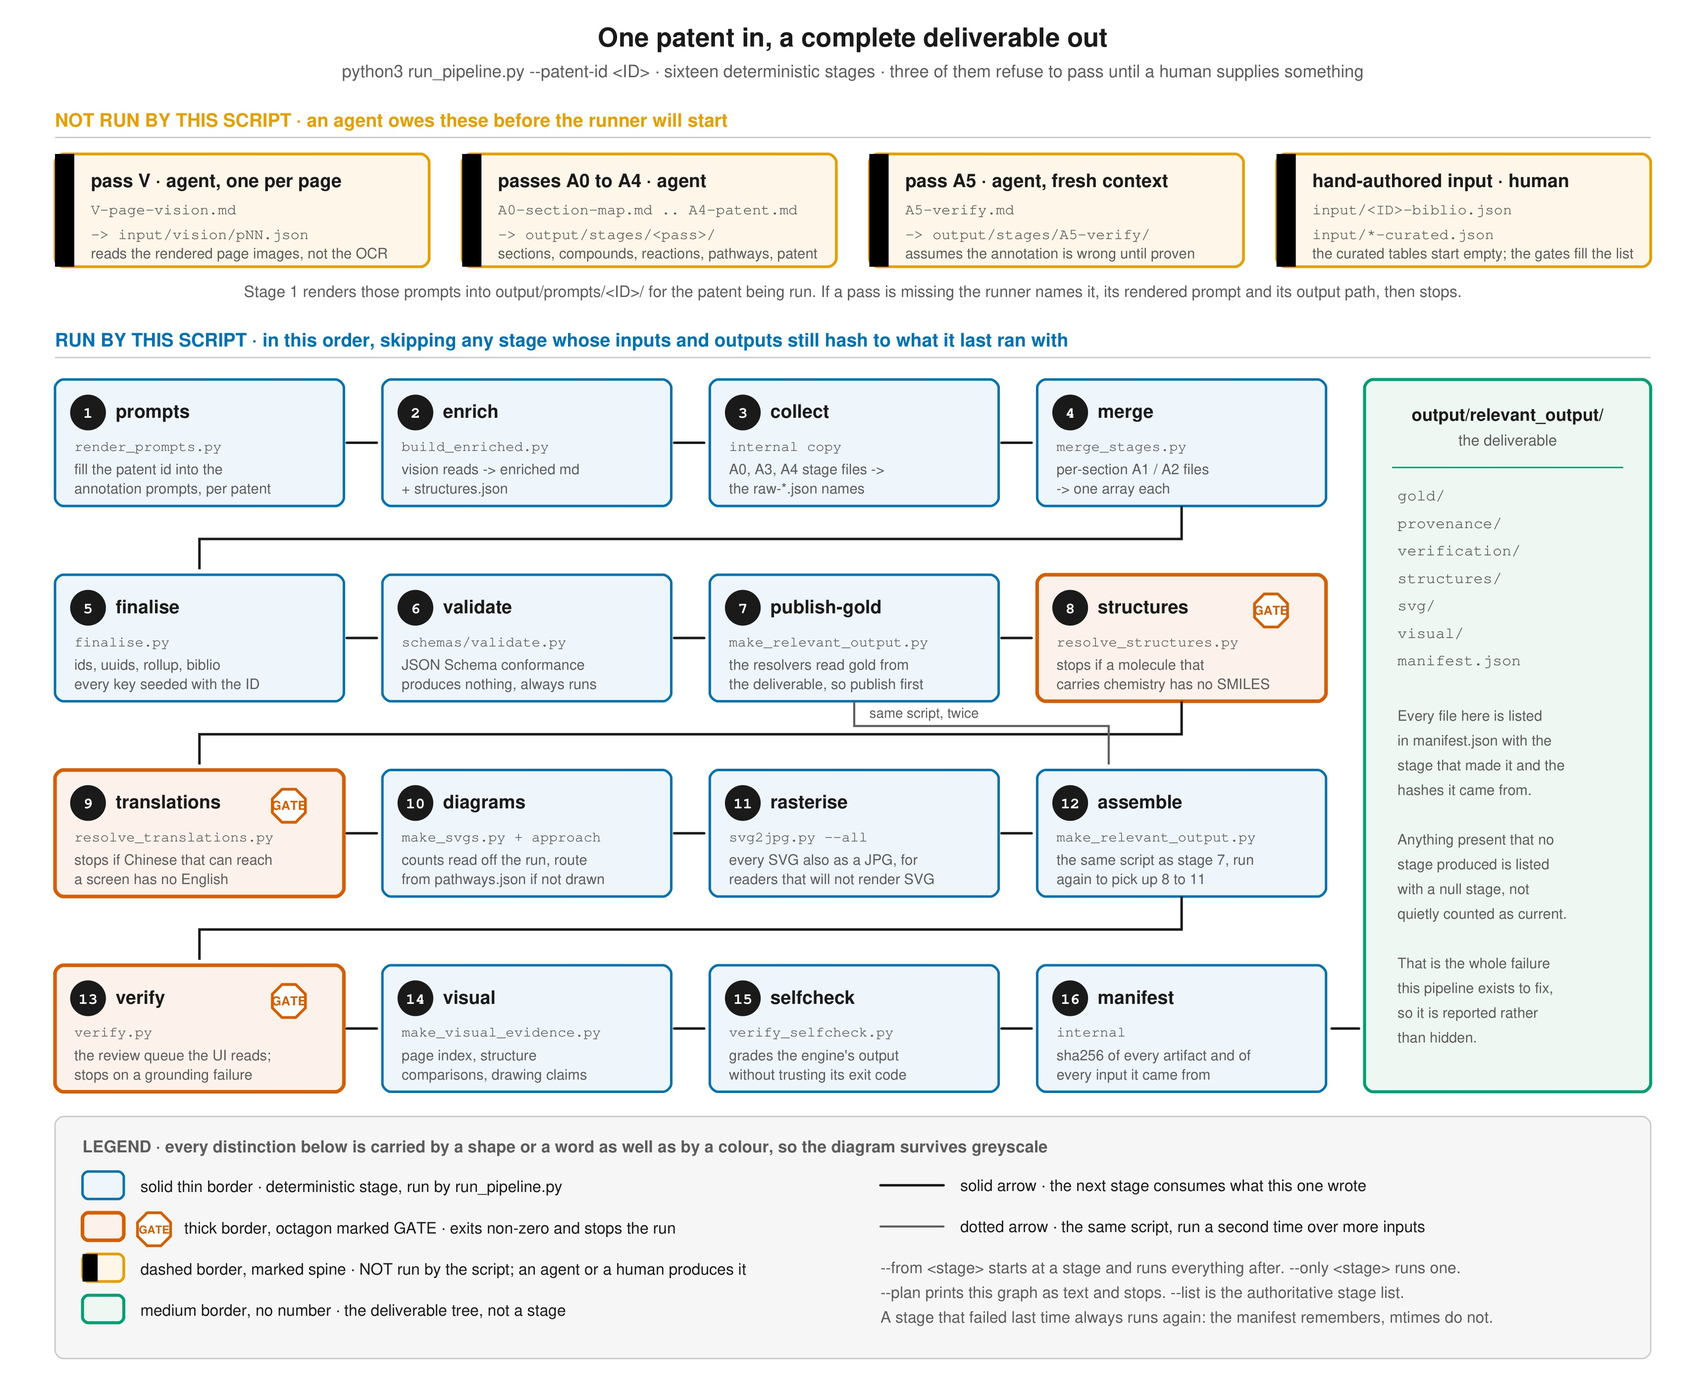
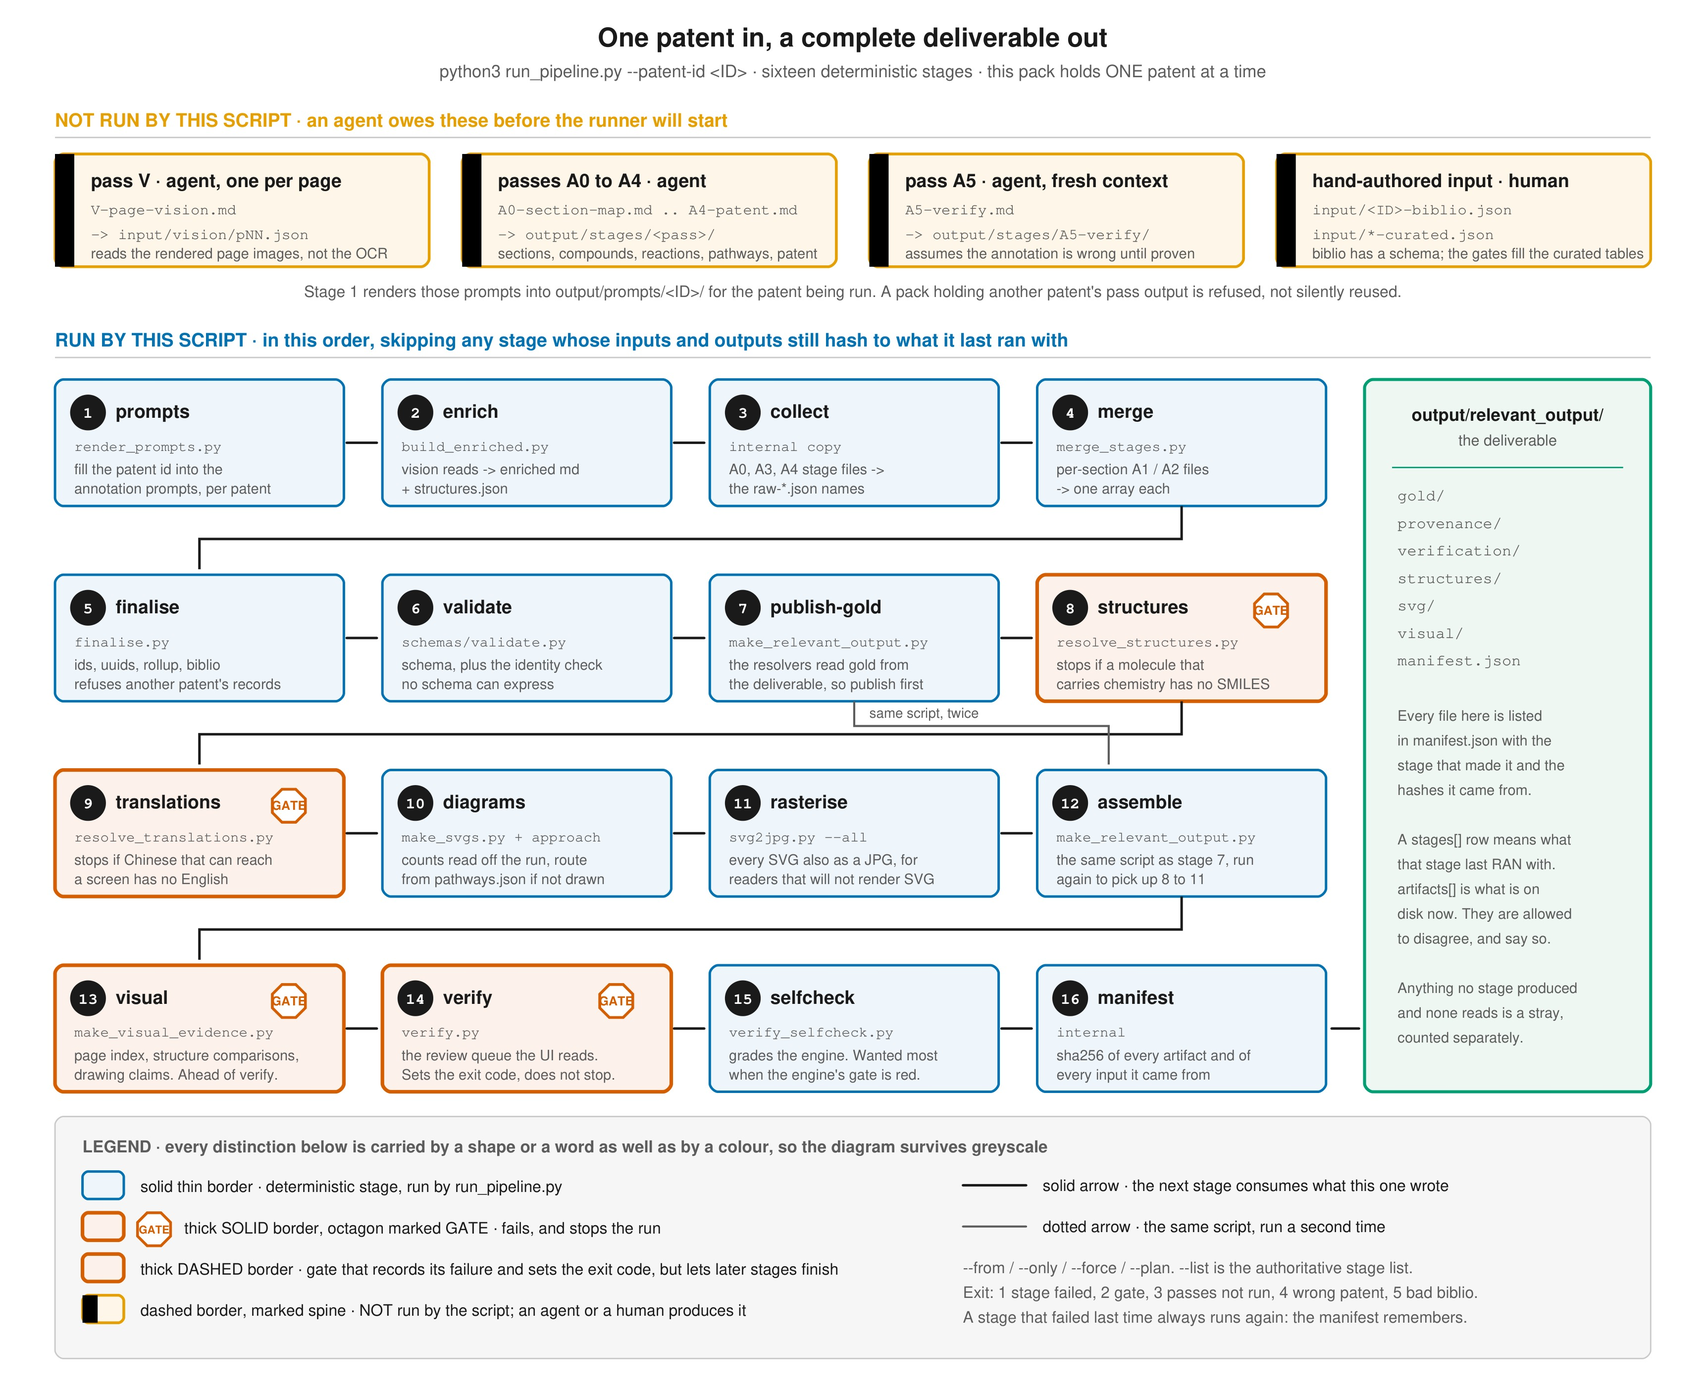
Visual comparisons reoriented to the patent, English gate clean

diff --git a/verify_selfcheck.py b/verify_selfcheck.py
@@ -22,6 +22,8 @@ corruption test safe: the gold is mutated in a dict, never on disk.
                         72-line citation is not the same evidence as `found`
                         against one line, and the contract's confidence bound is
                         computed over claims that do not distinguish them
+    I  fidelity       every index entry the index can answer, the scrubber
+                        answers, because deleting a term passes the Han gate too
     F  agreement        the engine's quantity failures against the annotation's
                         own validation flags, all three ways round
     G  contract        the claim shape against VERIFICATION-CONTRACT.md
@@ -143,6 +145,52 @@ def test_no_chinese(artifact: dict) -> None:
            "none" if not salvageable else
            "; ".join(f"line {n} is {latin} Latin characters against {han} Han"
                      for n, han, latin in salvageable))
+
+
+def test_translation_fidelity(data: dict) -> None:
+    """Does the scrubber actually USE the index, or just delete what it cannot read?
+
+    The no-Chinese gate is satisfied by translating a term and equally satisfied by
+    replacing it with "[untranslated Chinese term]". Those are opposite outcomes and
+    the gate cannot tell them apart, which is the same blind spot that let line 76
+    be thrown away whole. So this asks the sharper question: for every entry the
+    index HAS an English answer for, does the scrubber produce it?
+
+    Stated that way the test cannot be gamed and needs no threshold. A key the index
+    resolves and the scrubber does not is unambiguously the scrubber's defect, never
+    a curation gap.
+    """
+    print("\nI  does the scrubber use the index it was given")
+    index = data["translations"]
+    answerable = {k: (v or {}).get("en") for k, v in index.items()
+                  if V.has_chinese(k) and (v or {}).get("en")}
+    missed = [k for k, en in answerable.items()
+              if V.UNTRANSLATED in V.scrub(k, index)]
+    record("every index entry the index can answer, the scrubber answers",
+           PASS if not missed else FAIL,
+           f"{len(answerable) - len(missed)} of {len(answerable)} resolve"
+           + ("" if not missed else
+              "; unresolved: " + ", ".join(
+                  f"{k} (index says {answerable[k]!r})" for k in missed[:3])))
+
+    # The corpus that actually reaches the scrubber at run time, which is wider
+    # than the index: identifiers, aliases, quotes and raw source lines.
+    corpus = set()
+    for c in data["compounds"]:
+        for s in [c["identifier"], *(c.get("aliases") or [])]:
+            if s and V.has_chinese(s):
+                corpus.add(s)
+    for row in data["compound_prov"] + data["reaction_prov"]:
+        q = row.get("quote_zh")
+        if q and V.has_chinese(q):
+            corpus.add(q)
+    markers = sum(V.scrub(s, index).count(V.UNTRANSLATED) for s in corpus)
+    mangled = [s for s in corpus if V.UNTRANSLATED in V.scrub(s, index)]
+    record("the strings the reviewer actually meets survive scrubbing",
+           PASS if not mangled else WARN,
+           f"{len(mangled)} of {len(corpus)} carry an untranslated marker, "
+           f"{markers} markers in total. Anything left is an index gap, not a "
+           f"scrubber defect, because the check above passed")
 
 
 def test_sensitivity(patent_id: str, data: dict, artifact: dict) -> None:
@@ -478,6 +526,7 @@ def main() -> int:
     data = V.load_inputs(patent_id)
     artifact = test_determinism(patent_id, data)
     test_no_chinese(artifact)
+    test_translation_fidelity(data)
     test_sensitivity(patent_id, data, artifact)
     test_census(artifact)
     test_contract_shape(artifact)

diff --git a/verify.py b/verify.py
@@ -488,7 +488,18 @@ def scrub(text: str, index: dict) -> str:
     if not has_chinese(text):
         return text
 
-    out = substitute_longest(text, index)
+    # Substituted to a fixpoint, because an index VALUE can itself carry Chinese.
+    # The abstract's entry resolves whole and its English still says "higher than
+    # that of 硝环磺酮 and 甲基磺草酮", both of which the index also answers. One pass
+    # leaves those as markers and loses two herbicide names; a second resolves them.
+    # Bounded and stopped on no-change, so an entry that quoted its own key could
+    # not spin here.
+    out = text
+    for _ in range(4):
+        nxt = substitute_longest(out, index)
+        if nxt == out:
+            break
+        out = nxt
     out = _collapse_gloss(out)
     out = CJK_PAREN.sub("", out)
     out = re.sub(CJK.pattern + "+", UNTRANSLATED, out)
@@ -2992,10 +3003,20 @@ class Run(Engine):
             (f"It is not asserted by any claim on any record citing line {line}. "
              + (f"The field that would hold it is {path}. " if path else "") + why),
             needs_human=True, about_fields=[path] if path else []))
-        claim = self._claim(
-            rec, f"__quantity__[{tag}]",
+        # The question has to follow from `about` or the axis is decoration. These
+        # two claims look identical on screen and ask opposite things: one asks a
+        # reviewer to judge an omission, the other tells them there is nothing to
+        # judge because the field could not have held the answer. Asking "should it
+        # have?" of a schema loss invites a reviewer to mark correct work wrong,
+        # which is the exact failure `about` exists to prevent.
+        question = (
+            f"Line {line} prints {printed}, and the field that would hold it, "
+            f"{path}, cannot. Nothing was misread. Is a schema change worth it?"
+            if family == "schema_loss" else
             f"Line {line} prints {printed}. The annotation does not record it "
-            f"anywhere. Should it have?",
+            f"anywhere. Should it have?")
+        claim = self._claim(
+            rec, f"__quantity__[{tag}]", question,
             printed, low.value, low.unit, self.source.with_partners([line]), [],
             "not_checkable",
             f"{printed} is printed on line {line} and no claim on any record citing "

diff --git a/schemas/validate.py b/schemas/validate.py
@@ -52,6 +52,17 @@ for art, sch in PAIRS:
         print(f"      {'.'.join(str(p) for p in e.path) or '<root>'}: {e.message[:110]}")
     bad += len(errs)
 
+# ---------------------------------------------------------------- the input
+# The biblio is an input rather than an artifact, and the runner checks it before
+# any stage runs. Checked here too so that running this script standalone covers
+# every schema the pack has, not just the ones downstream of finalise.
+from pipeline_context import validate_biblio
+biblio_problems = validate_biblio(PATENT_ID)
+print(f"  {'biblio (input)':22} {'ok' if not biblio_problems else f'{len(biblio_problems)} violations'}")
+for x in biblio_problems[:10]:
+    print(f"      {x}")
+bad += len(biblio_problems)
+
 # ---------------------------------------------------------------- identity
 # Every record must be about the patent this run is about, and about the same
 # patent as every other record. No schema expresses this.

diff --git a/PIPELINE.md b/PIPELINE.md
@@ -77,8 +77,8 @@ none of it does.
 | 10 | `diagrams` | `make_svgs.py`, `make_approach.py` | `svg/m1` to `m5`, `svg/approach.svg` | |
 | 11 | `rasterise` | `svg2jpg.py --all` | `svg/*.jpg` | |
 | 12 | `assemble` | `make_relevant_output.py` | the deliverable again, now including structures, translations and diagrams | |
-| 13 | `verify` | `verify.py` | `relevant_output/verification/checks-<ID>.json` | yes |
-| 14 | `visual` | `make_visual_evidence.py` | `relevant_output/visual/`: the page index, the structure comparisons, the drawing claims | |
+| 13 | `visual` | `make_visual_evidence.py` | `relevant_output/visual/`: the page index, the structure comparisons, the drawing claims | yes |
+| 14 | `verify` | `verify.py` | `relevant_output/verification/checks-<ID>.json` | yes, non-blocking |
 | 15 | `selfcheck` | `verify_selfcheck.py` | nothing; grades the verification engine's own output | |
 | 16 | `manifest` | internal | `relevant_output/manifest.json` | |
 
@@ -146,7 +146,38 @@ lines the record itself cites and exits non-zero when a `grounding` check fails.
 non-zero when what they are grading is wrong, which is the point: a stage that
 produces nothing cannot be skipped for being current.
 
-### What the runner does with a gate
+### One gate does not stop the run
+
+`verify` is a gate and sets the exit code, but the stages after it still run.
+
+A grounding failure says the **annotation** is suspect. It does not say the page
+images are suspect, and the visual evidence, the page index and the structure
+comparisons are exactly what a human reaches for at that moment. Blocking them
+behind a red gate removes the evidence at the point it is most needed. It also put
+the visual stage back where it started: produced only when somebody ran the script
+by hand, which is the gap this pipeline exists to close, reappearing one stage
+downstream of a gate that is red on purpose and may stay red for a long time.
+
+`visual` now runs *before* `verify` anyway, because it consumes nothing `verify`
+produces; the old order was incidental, not causal. `selfcheck` runs after, because
+grading the engine is exactly what you want when the engine's gate is red.
+
+Nothing is swallowed. The run ends with:
+
+```
+pipeline reached the end: CN104292137A  (A GATE FAILED, see below)
+========================================================================
+GATE FAILED: verify (exit 1). THIS RUN IS NOT CLEAN.
+Stages that ran anyway, because they consume nothing the failed gate
+produces:  selfcheck
+Their output is current for this gold. The gold itself is what the gate is
+questioning, so read the gate's message above before trusting any of it.
+```
+
+`structures` and `translations` stay fully blocking, because everything downstream
+genuinely consumes what they produce.
+
+### What the runner does with a blocking gate
 
 Stops. Prints the stage's own message unmodified, says how to resume, and exits 2.
 
@@ -232,8 +263,14 @@ went missing, and the rebuild is byte-identical for the five that did not need t
 change, so nothing drifts. But do not read the manifest and expect a one-file
 delete to cause a one-file rebuild.
 
-Exit codes: `0` ok, `1` a stage failed, `2` a coverage gate stopped the run, `3`
-the LLM passes have not been run.
+| exit | meaning |
+|---:|---|
+| `0` | everything ran or was already current |
+| `1` | a stage failed |
+| `2` | a gate did not pass |
+| `3` | the LLM annotation passes have not been run |
+| `4` | this pack holds a different patent's work |
+| `5` | the bibliographic record is missing or malformed |
 
 Running twice changes nothing. Verified three ways: two `--force` runs produce a
 byte-identical tree including the manifest; a `--force` run followed by a plain run
@@ -323,9 +360,16 @@ id comes from `--patent-id`, from `$ANNOTATION_PATENT_ID`, or from the one
    The runner reports both of these as missing, with that command, so you do not
    have to remember it.
 
-2. **Write `input/<ID>-biblio.json`.** Same shape as the existing one:
-   `family_id`, `title_en`, the dates, `jurisdiction`, `language`, `assignees`,
-   `inventors`, `legal_status`, `ipc_codes`, `abstract_zh`.
+2. **Write `input/<ID>-biblio.json`.** `schemas/biblio.schema.json` is the
+   contract and documents every field. The runner validates it as a whole before
+   any stage runs and reports every problem at once, rather than failing at one
+   bare `b["key"]` at a time several stages in.
+
+   Two things worth knowing. `grant_date` is nullable, because most published
+   applications are never granted and making it fatal made the pack unusable for
+   them. And `jurisdiction` is the fallback country for any inventor given as a
+   bare name, so a wrong value there mislabels every inventor; give inventors as
+   `{"name": ..., "country": ...}` objects where it matters.
 
 3. **Start the two curated tables empty.** The gates will tell you what goes in
    them; guessing first wastes the trip.
@@ -374,6 +418,46 @@ page carries the most drawn structures, the cumulative yield from the pathway th
 annotation stands behind.
 
 ---
+
+## This pack holds ONE patent at a time
+
+Say it plainly, because the runner reads as though it were multi-patent and it is
+not. **11 of the 119 declared paths carry the patent id.** The other 108 do not:
+`output/stages/A1-compounds/`, `input/vision/`, `output/compounds.json`,
+`output/structures/`, `svg/`, and the whole of `output/relevant_output/` are
+patent-agnostic paths holding one patent's contents.
+
+So `--patent-id <other>` in a pack that already holds a finished patent does not
+mean "also do this one". It means "overwrite that one", and until recently it meant
+something worse.
+
+**The chimera.** A pack holding a complete CN104292137A has, for any other patent
+id, *no missing prerequisites at all*: every A0 to A5 file the check looks for is
+at a patent-agnostic path, so patent one's files satisfy patent two's requirements
+completely. `finalise` then printed "75 unique compounds" for the new patent and
+wrote 75 records whose `id` was built from the new patent and whose `patent_id`
+field still named the old one. Schema validation passed, because no schema says a
+record's patent id must match the run or match `patent.json`. `publish-gold` copied
+it into the deliverable. Nothing crashed. The artifact was internally consistent,
+individually well formed, and about the wrong document.
+
+Three checks close it, in the order they can fire:
+
+| where | catches | exit |
+|---|---|---:|
+| `run_pipeline.py`, before any stage | any `patent_id` under `output/stages/`, `input/vision/` or the curated tables that disagrees with the run | 4 |
+| `finalise.py`, before a single id is built | the same, on the raw arrays it is about to finalise | 2 |
+| `schemas/validate.py` | a record whose `patent_id` is not the run's, or whose `id` is not built from its own `patent_id` | 1 |
+
+The third is the one worth understanding: **JSON Schema cannot express it.** A
+schema can say a record has a `patent_id`. It cannot say that value is the same as
+the run's, or the same as every other record's. So that check lives in code beside
+the schema check, not inside it.
+
+**To run a second patent, start a clean pack.** Copy the scripts, `prompts/`,
+`schemas/` and `contracts/`; leave `output/` and `input/vision/` empty. The runner
+tells you exactly what is then missing. Restructuring the tree to hold several
+patents at once is a real piece of work and has not been done.
 
 ## Where the patent id lives now
 

diff --git a/contracts/VERIFICATION-CONTRACT.md b/contracts/VERIFICATION-CONTRACT.md
@@ -75,7 +75,7 @@ A claim is one field of one record paired with the evidence for it.
   "rec_field": "quantity.mass_g",
   "record_label_en": "2-chlorotoluene",
   "section_en": "Example 1",
-  "about": "extraction | patent",
+  "about": "extraction | patent | schema",
   "field": "quantity.mass_g",
   "field_label_en": "Mass charged",
   "question_en": "Does the patent say 25.3 g of 2-chlorotoluene?",
@@ -122,8 +122,25 @@ stands between the team and a fabricated number in a future run.
 - `tier: 1` - a human must see it. Anything `not_found` or `partial`, any load-bearing
   `not_checkable` judgement, and any claim on a record with a failed structure,
   quantity or reference check. Small population, worked as a census.
-- `tier: 2` - the `__coverage__` candidate-miss claims. The recall side. Also a census.
+- `tier: 2` - the candidate misses. The recall side, also a census, and it has TWO
+  feeders: `__coverage__` claims for a whole line no record cites, and `__quantity__`
+  claims for one quantity on a cited line that no claim asserts. Read only the first
+  and you compute the denominator as zero while the queue holds fifteen.
 - `tier: 3` - the machine matched it cleanly. Sampled, never exhausted.
+
+`summary.tier_population` carries each tier's size twice: `claims`, counted off the
+queue, and `population`, derived from where the work came from - the verdicts and
+failing checks for tier 1, the uncited lines and unaccounted quantities for tier 2 -
+with `from_en` saying so in English and `agrees` asserting the two match. A
+denominator recovered from the list it measures cannot detect the one failure that
+matters, a claim that was never emitted at all, which is exactly how tier 2 came to
+hold fifteen claims while both of its old denominators read zero.
+
+`summary.claims_by_severity` is the same idea for severity, and `summary.grounding_failed`
+is true when any grounding claim is `not_found`, which is what makes the stage exit
+non-zero. A failed DERIVATION does not set it: `quantity.yield_identity` and the
+derived-field recomputations are arithmetic about the patent, not grounding, and
+stopping the pipeline because the document contradicts itself would be wrong.
 
 `stratum` is `<record_kind>:<section_en>`, so tier 3 can be sampled proportionally
 instead of being dominated by whichever section is largest. `summary` must carry the
@@ -229,7 +246,7 @@ Check families, and what each one catches:
 | `grounding` | a quote or a number that is not in the source it cites. Hallucination. |
 | `reference` | a reaction naming a compound that does not exist, a pathway step with no reaction. Orphans. |
 | `structure` | SMILES that will not parse, a formula that disagrees with the drawn structure. |
-| `quantity` | mass and mmol that disagree with the molecular weight. |
+| `quantity` | mass and mmol that disagree with the molecular weight, and the yield identity below. |
 | `consistency` | the same molecule given two different structures, or two records for one thing. |
 | `drawing` | the structure read off the page image against the gold's structure for the same named molecule. Two independent readings disagreeing is a hard defect. |
 | `completeness` | something the patent states that no record holds. |
@@ -288,6 +305,31 @@ An unaccounted quantity becomes a tier-2 claim with `field: "__quantity__[<line>
 | `unmapped` | `extraction` | no field of that kind exists on any record citing the line. Design question. |
 
 `summary.quantity_coverage` carries the tally and every finding.
+
+## The yield identity - the arithmetic `mass_check` structurally cannot see
+
+`quantity.mass_mmol` needs a mass AND a mole count on the SAME row. Every example
+step in this patent writes its product as a mass with no mole count, so the check
+built to find the des-chloro defect cannot see it at the one step where it matters
+most. The annotation flagged Example 1 Step 1; this stage passed it; that single
+disagreement was the whole of `agreement_with_annotation.annotation_only`.
+
+`quantity.yield_identity` asks the question those rows CAN answer:
+
+    limiting reactant mmol  x  yield  x  MW(product)  =  the product mass printed
+
+It applies to 8 of the 33 reactions - the rest lack a product mass, a reactant molar
+charge, a yield or a resolved structure, and are `skip` rather than `pass`. All 8
+disagree. Steps 1, 2 and 4 land within half a unit of the chlorine-for-hydrogen
+shift by a path completely independent of mass-over-moles, which is corroboration of
+the des-chloro finding rather than the same measurement twice. The rest cluster near
+-44.7 and are deliberately left unexplained: naming a cause this stage cannot support
+would be the machine guessing in front of a reviewer who cannot check it.
+
+The three numbers are the PATENT's own, so a disagreement is the document
+contradicting itself and never an extraction error. The claim carries
+`about: "patent"`, `basis: "derived"` and `severity: "high"`, and it does NOT trip
+the grounding gate.
 
 **What this does NOT establish.** Matching is by VALUE, not by attachment. It shows
 no quantity was ignored. It does not show each quantity was attached to the right
